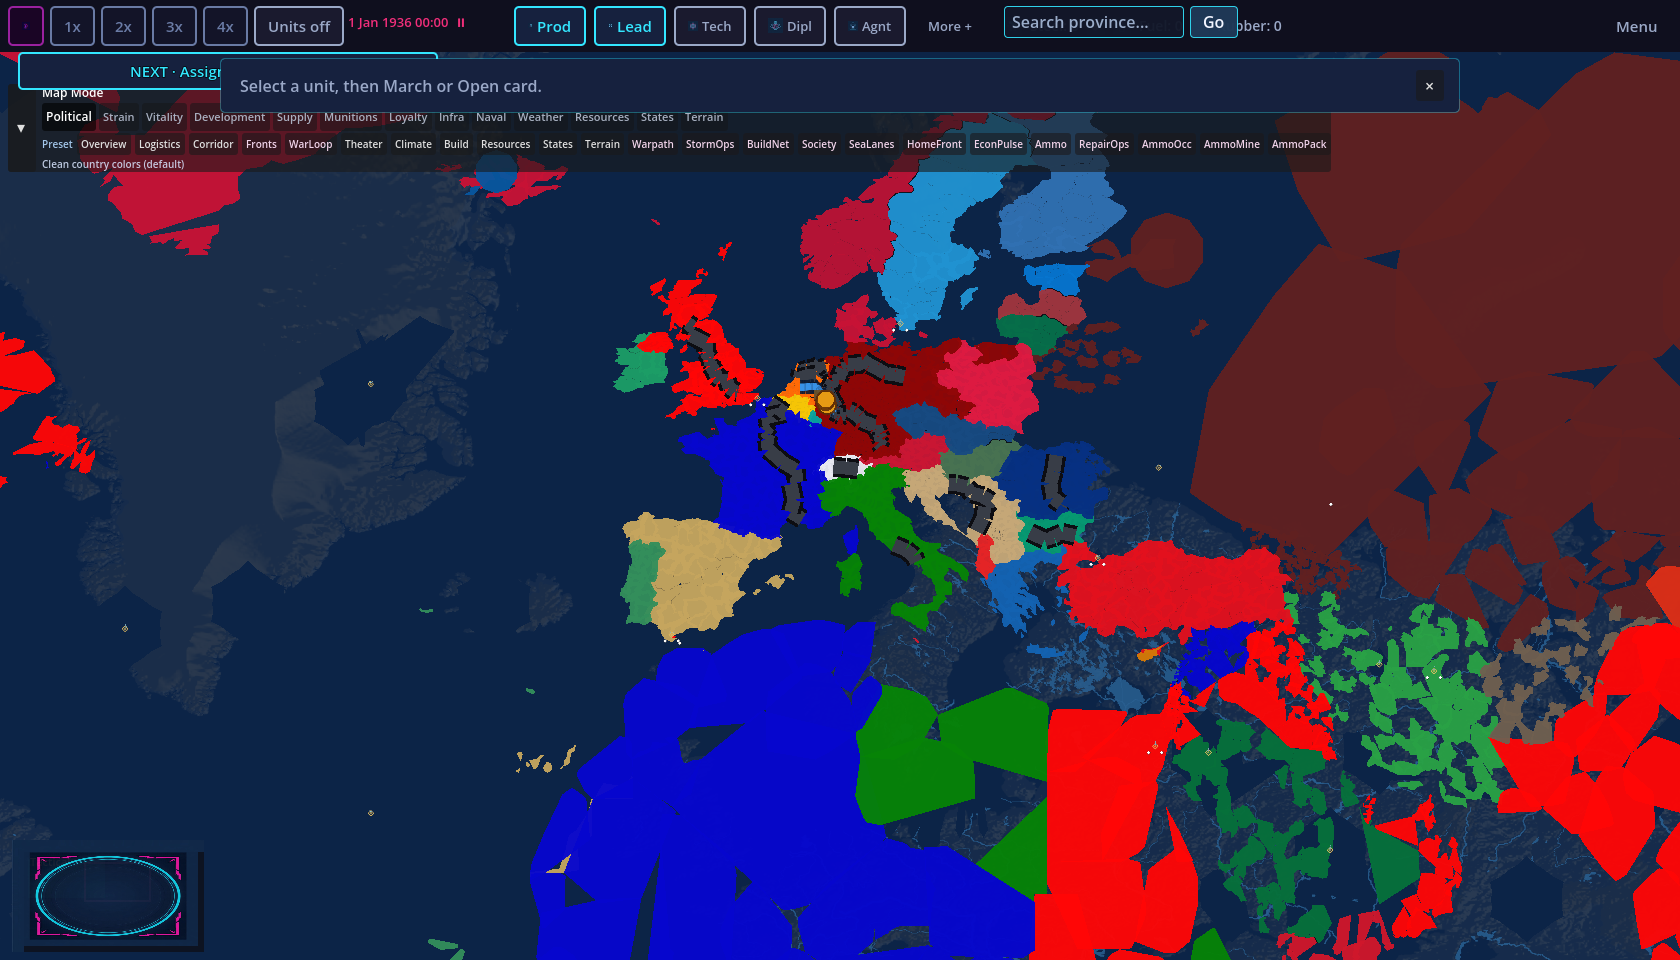
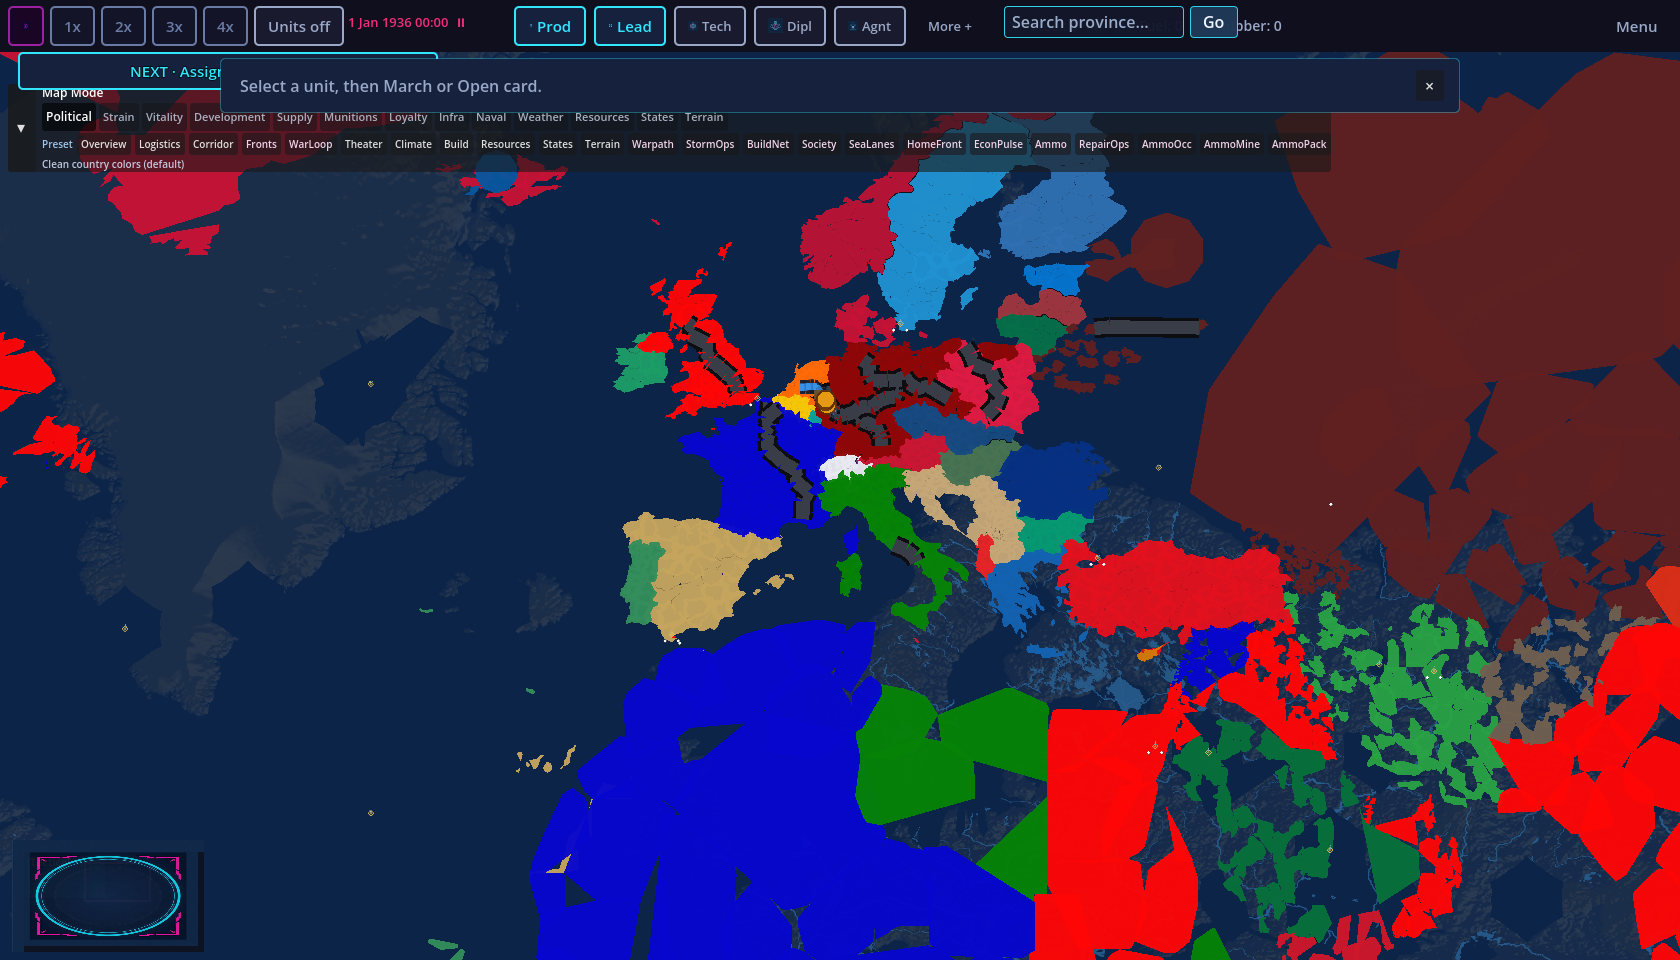
HWY-3 FIX #2: pixel bars far 21 / default 12 / close 20
Median t-sample + hunt under 9 px so the hub-route pair reads casing
not a core clip or merged parallel. xvfb PASS; wide Germany 20 runs.

diff --git a/docs/GAME_STATUS_SNAPSHOT.md b/docs/GAME_STATUS_SNAPSHOT.md
@@ -31,7 +31,7 @@ Every Cursor / Grok / human session on this tree:
 | **GitHub** | `origin/main` @ `497731dd` (GS-1 gold spine KEEP). **RT-1** readable road tiers is a **draft** slice — **HOLD merge**. Do not force-push over June Cursor history. |
 | **RX-1 Rhine Crossing** | Vector Rhine Bonn→Köln→Düsseldorf→Duisburg. Units on top (labels 18 < river 22 / roads 21 < joined gold spine 23 < counters 28); theater-scale + screen-space; view-only **Units** HUD + **U**. Pixel guard xvfb continuity **FAIL** `dbbdef4` (mid 0.222/12px, close 0.125/42px) / **PASS** tip (1.000/0 both zooms); units ON chip 0.932 over spine. HOLD merge on the continuity slice. |
 | **RT-1 road tiers** | Visual only (intact). Main `94295fc` Play **PASS** (PR 59). **RT-1b** draft **gold-only**: mid gold **28/34** (≥1.8× highway; close stays 16/20). `ProvEdge_` hide + forced `_sync_border_lod` **reverted** after live Play **FAIL** `5c60f366` (sage web; Köln click hit Luxembourg). Tan NUTS cells at mid are **backlog** (borders, needed for pick). xvfb ≠ product Play. HOLD merge. |
-| **HWY-1 / HWY-2 / HWY-3 highways** | Draft **HOLD**. HWY-3 FIX #2 g100e (stacked on #100): hook-back trap in independent H3; capital↔2nd-hub trunks (ITA Rome–Milan); near-parallel drop; Ruhr urban-span 4/5 via kreisfreie scoring (**no pid list**); Munich–Frankfurt SPAN. Live **114**/9/0/median **10.00**, `dropped_cap=80`. FIX #1 was Kruskal skip + same-tag bridges, pixel far **14** / default **12** / close **29**, wide Germany **13**. Shots `docs/evidence/hwy3/`. `select_trunk_edges` / LOD / gold spine / IX-1 / RX-1 **unedited**. **Headless + xvfb, live Play pending.** |
+| **HWY-1 / HWY-2 / HWY-3 highways** | Draft **HOLD**. HWY-3 FIX #2 g100e (stacked on #100): hook-back trap; ITA Rome–Milan trunk; near-parallel drop; Ruhr 4/5 urban-span (**no pid list**); Munich–Frankfurt SPAN. Live **114**/9/0/median **10.00**, `dropped_cap=80`. Pixel far **21** / default **12** / close **20**, wide Germany **20**. `--quick` 14 known reds; NE **0.9853**. Shots `docs/evidence/hwy3/`. `select_trunk_edges` / LOD / gold spine / IX-1 / RX-1 **unedited**. **Headless + xvfb, live Play pending.** |
 | **MV-1 move ETA preview** | Gameplay UI only. Hover own land with a unit selected → dimmer dashed `MarchPreviewLine` + chip before click; commit uses the same `preview_own_land_march` path/ETA. **FIX #2:** left-gesture fully resets on every fresh press and on inspector/Open-fight open+close (Play MIXED `8089bbd4` latch). Plain click on a different own counter switches; selected unit's own chip area / empty own land commits; Ctrl stays assault. Peak slop latches dragged even if release returns near origin. **MV-1e (CH-1):** non-icon still-click at 4× re-resolves `event.position` — do not commit the stale hover dest (Play: Bad Kreuznach → Hildesheim). Hover/preview update unchanged. Headless preview==commit **PASS**. xvfb pixel + card-up real-input guards **PASS** (not live Play). Map drawing layers **untouched**. `_try_open_land_unit_at_world` fallback **untouched**. **HOLD merge** until live Play. |
 | **RH-1 resource glyphs** | Draft **HOLD**. Coal/oil/etc. HudIconLibrary glyphs draw only on F9 `resources`. Political/diplomacy/other modes keep `show_resource_icons=false`. Current icon art unchanged (new coal PNGs later). Headless `HeadlessRh1ResourceGlyphMapModeTest` + xvfb `tools/eoa_rh1_pixel_guard.sh` (Ruhr/Essen zoom ≥ 0.5) — **NOT live Play**. Roads/borders/tiers untouched. |
 | **FAC-1a airfield icons** | Draft **HOLD**. Default board **`world_accurate`**. FIX #7: circle hit only for L4 art; L1–L3 clusters use oval+ring. Press/release pick uses `event.position`. Seeds unchanged: **Borken `710430` L1 / Warendorf `710434` L2 / Ober `710423` L3 / Siegen-Wittgenstein `710451` L4**. Isolated xvfb_fac1a **PASS** stale_lag=true clustervar=true · seeded RX-1 ON/OFF mid_river **0.749 / 0.749**. xvfb ≠ live Play. |

diff --git a/docs/TESTING_PLAN.md b/docs/TESTING_PLAN.md
@@ -980,7 +980,7 @@ Pixel: `WindowedRt1RoadTierPixelGuard` measures the **fixed** `710412–710424` 
 
 Display highways are **trunk shortest paths between hubs** (capitals, largest cities, significant ports). Urban-district neighbour count is an **optional weight** only. Rank-and-grow stays as a fallback for synthetic Part A (no hub records) and as the `rank_grow_back` mutant. Each accepted route is a **simple path** (no repeated vertex, no >150° hook-back, length ≤1.6× hub chord, zigzag ≤1.5π per 6 edges). FIX #1 paints one tree per large country; budget is **2× of 52** (60–114). 0 singletons, median ≥4. Far highways keep casing/core + 20 px floor so the wide Germany frame shows routes; dirt/paved stay culled.
 
-Guard `HeadlessHwy3HubRouteTest` H1–H6 + named mutants (`rank_grow_back`, `no_capitals`, `urban_required`, `zigzag_ok`, `hook_back`, `not_shortest`, `far_hidden`, `flip_max`, `pid_list`). Wired as `launch_hwy3_hub_route`. **FAIL** on d4a3a1ff (5: pid_list / flip_max / H1 rank-grow / H2 empty) / **PASS** on FIX #1 tip (114/9/0/median 8.00, Munich+Essen+GER tree). FIX #2 (g100e) **HeadlessHwy3 RESULT=PASS**: H3 **hook-back trap** (double-back >150°); every major capital connects to its 2nd hub (ITA Rome–Milan `710882–710963`); no two routes share both end regions with Hausdorff cover >45% within 12 wu (one-end forks 75% both-way); Ruhr urban-span **4/5** Duisburg/Essen/Bochum/Dortmund (kreisfreie scoring, no pid whitelist); Munich–Frankfurt on a SPAN. Live **114**/9/0/median **10.00**; `dropped_cap=80` `dropped_parallel=6`. Budget stays **60–114**. Pixel: **one fixed orientation** (`HWY3_FIXED_ORIENTATION=1`), hub-route pair `710401–710412`, far **14** / default **12** / close **29** (ceilings 26/18, pair screen ±28) — re-measure on this tip. Wide-Germany counts highway-coloured runs **on hub-route segments only** (**13** ≥9 px; main/d4a3 → 0). Shots `docs/evidence/hwy3/`. `select_trunk_edges` / `road_tier_for_edge` / GameData == d4a3a1ff **unedited**. **HOLD merge.**
+Guard `HeadlessHwy3HubRouteTest` H1–H6 + named mutants (`rank_grow_back`, `no_capitals`, `urban_required`, `zigzag_ok`, `hook_back`, `not_shortest`, `far_hidden`, `flip_max`, `pid_list`). Wired as `launch_hwy3_hub_route`. **FAIL** on d4a3a1ff (5: pid_list / flip_max / H1 rank-grow / H2 empty) / **PASS** on FIX #1 tip (114/9/0/median 8.00, Munich+Essen+GER tree). FIX #2 (g100e) **HeadlessHwy3 RESULT=PASS**: H3 **hook-back trap** (double-back >150°); every major capital connects to its 2nd hub (ITA Rome–Milan `710882–710963`); no two routes share both end regions with Hausdorff cover >45% within 12 wu (one-end forks 75% both-way); Ruhr urban-span **4/5** Duisburg/Essen/Bochum/Dortmund (kreisfreie scoring, no pid whitelist); Munich–Frankfurt on a SPAN. Live **114**/9/0/median **10.00**; `dropped_cap=80` `dropped_parallel=6`. Budget stays **60–114**. Pixel: **one fixed orientation** (`HWY3_FIXED_ORIENTATION=1`), hub-route pair `710401–710412`, far **21** / default **12** / close **20** (mins 9/12/16; ceilings 26/18, pair screen ±28). Wide-Germany **20** hub-route runs ≥9 px (main/d4a3 → 0). `--quick` 14 known unit_board_play_path reds; map_qc NE **0.9853**. Shots `docs/evidence/hwy3/`. `select_trunk_edges` / `road_tier_for_edge` / GameData == d4a3a1ff **unedited**. **HOLD merge.**
 
 ### RX-1 Rhine Crossing (Phase B draft)
 

diff --git a/docs/CURRENT_STATE.md b/docs/CURRENT_STATE.md
@@ -1,4 +1,4 @@
-> **2026-10-15 HWY-3 FIX #2 g100e (HOLD merge):** Same branch `cursor/hwy3-hub-routes-3d86` on `#100` `d4a3a1ff`. Hwy1 band **60–114** unchanged (live **114**/9/0/median **10.00**). Cap still drops **80** candidate routes (`dropped_cap=80`, `dropped_parallel=6`). (1) Independent H3 **hook-back trap** (double-back >150°) like zigzag — PASS. (2) Capital↔2nd-hub trunks: ITA Rome–Milan `710882–710963`; all 8 majors connected. (3) Near-parallel drop (both ends + Hausdorff 12 wu / 45% cover; one-end forks need 75% both-way). (4) Ruhr urban-span **4/5** Duisburg–Essen–Bochum–Dortmund via kreisfreie scoring (**no pid list**); Munich–Frankfurt SPAN. Overlay walks all land for routing graph; NUTS–NUTS sanity with hub-star. **HeadlessHwy3 RESULT=PASS.** Pixel / `--quick` / NE re-measure on this tip. **Headless + xvfb, live Play pending.**
+> **2026-10-15 HWY-3 FIX #2 g100e (HOLD merge):** Same branch `cursor/hwy3-hub-routes-3d86` on `#100` `d4a3a1ff`. Hwy1 band **60–114** unchanged (live **114**/9/0/median **10.00**). Cap still drops **80** candidate routes (`dropped_cap=80`, `dropped_parallel=6`). (1) Independent H3 **hook-back trap** — PASS. (2) Capital↔2nd-hub trunks: ITA Rome–Milan; all 8 majors connected. (3) Near-parallel drop (both ends + Hausdorff 12 wu / 45%; one-end forks 75% both-way). (4) Ruhr urban-span **4/5** Duisburg–Essen–Bochum–Dortmund (**no pid list**); Munich–Frankfurt SPAN. **HeadlessHwy3 RESULT=PASS.** Pixel far **21** / default **12** / close **20**, wide Germany **20**. `--quick` 14 known reds; map_qc NE **0.9853**. GameData md5 `8c1d5e9f`. **Headless + xvfb, live Play pending.**
 >
 > **2026-10-15 HWY-3 FIX #1 hub-route trees (HOLD merge):** Stacked on HWY-2 `#100` `d4a3a1ff` (`cursor/hwy3-hub-routes-3d86`). Display highways are k-NN+MST **shortest paths between hubs**, Kruskal skip-if-connected so each large country is **one corridor** (GER tree includes Berlin, Köln, Munich, Essen). Independent H3 shape math (not `path_shape_report`) kills `zigzag_ok`/`hook_back`. Live 1936: **114** highways, **9** components, **0** singletons, median **8.00**, **140** hubs, **24** routes (2×52 cap). Guard `HeadlessHwy3HubRouteTest` **FAIL** on d4a3a1ff / **PASS** on tip. Pixel: one fixed orientation, pair `710401–710412`, far **14** / default **12** / close **29**, wide Germany **13** hub-route runs ≥9 px (main/d4a3 → 0). `--quick` 14 known reds; map_qc NE **0.9853**. GameData md5 `8c1d5e9f` ×3 == d4a3a1ff. `select_trunk_edges` / LOD / gold spine / IX-1 / RX-1 **unedited**. **Headless + xvfb, live Play pending.**
 >

diff --git a/docs/evidence/hwy3/README.md b/docs/evidence/hwy3/README.md
@@ -7,8 +7,8 @@ Stacked on HWY-2 `#100` `d4a3a1ff`. Display highways are trunk shortest paths be
 | `ruhr_koln_mid.png` | default 1.80 | Connected GER corridor: Ruhr–Köln and east–west spine. |
 | `ruhr_koln_close.png` | close 3.20 | Casing vs fills; gold spine Bonn–Köln–Leverkusen. |
 | `ruhr_koln_far.png` | far 0.32 | Europe/Home; highways on, dirt/paved culled. |
-| `wide_germany.png` | far ~0.34 | Germany bbox; **13** hub-route highway runs ≥9 px (main/d4a3 → 0). |
+| `wide_germany.png` | far ~0.34 | Germany bbox; **20** hub-route highway runs ≥9 px (main/d4a3 → 0). |
 | `ruhr_koln_mid_highway.png` / `ruhr_koln_close_highway.png` / `ruhr_koln_far_highway.png` | same | Pixel-guard highway-band captures. |
 | `ruhr_koln_*_hwy2.png` | same | HWY-2 `#100` comparison shots. |
 
-Pixel: one fixed orientation (`HWY3_FIXED_ORIENTATION=1`, flipped=false), hub-route sample pair by rule (nearest non-spine highway to Köln = `710401–710412`). Bars far **14** / default **12** / close **29** (mins 9 / 12 / 16; ceilings 26 / 18). Wide Germany **13** hub-route runs ≥9 px (FIX #1 tip; re-measure on FIX #2). FIX #2 HeadlessHwy3 **PASS**: 114/9/0/median **10.00**, ITA Rome–Milan trunk, Ruhr 4/5, Munich–Frankfurt, `dropped_cap=80` `dropped_parallel=6`. Hwy1 band 60–114.
+Pixel: one fixed orientation (`HWY3_FIXED_ORIENTATION=1`, flipped=false), hub-route sample pair by rule (nearest non-spine highway to Köln = `710401–710412`). Bars far **21** / default **12** / close **20** (mins 9 / 12 / 16; ceilings 26 / 18). Wide Germany **20** hub-route runs ≥9 px. FIX #2 HeadlessHwy3 **PASS**: 114/9/0/median **10.00**, ITA Rome–Milan trunk, Ruhr 4/5, Munich–Frankfurt, `dropped_cap=80` `dropped_parallel=6`. Hwy1 band 60–114. `--quick` 14 known reds; map_qc NE **0.9853**.
